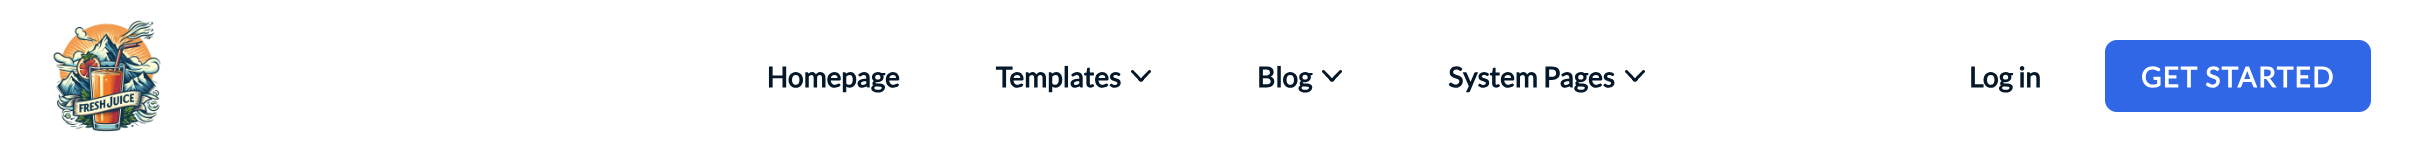
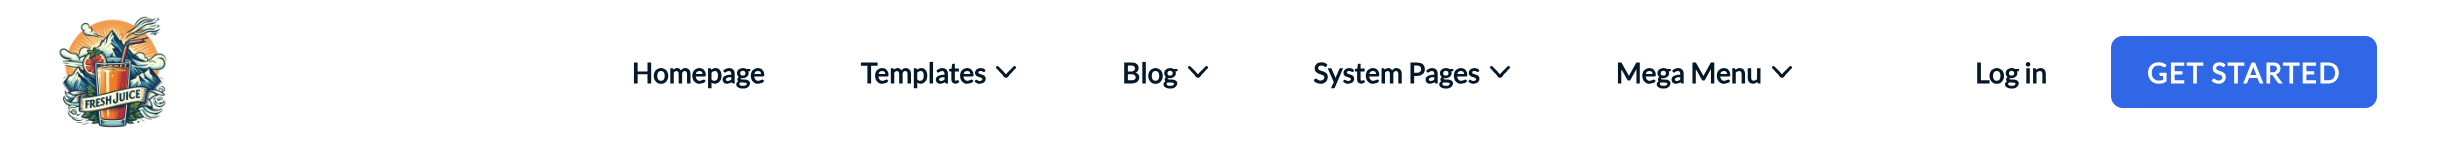
update navigation bar docs

Changed region(s): [[0.25, 0.411, 0.75, 0.6027], [0.7812, 0.2466, 1.0, 0.7397], [0.0, 0.1096, 0.0938, 0.8767]]

diff --git a/_content/docs/modules/navigation-bar/index.md b/_content/docs/modules/navigation-bar/index.md
@@ -5,7 +5,7 @@ desc: The Navigation Bar modules provide a simple way to display an interface wi
 
 The Navigation Bar modules provide a simple way to display an interface with navigation for the site's pages or sections.
 
-You can check the demo page [here](https://143910617.hs-sites-eu1.com/module-navigation-bar)
+You can check the [demo page here](https://143910617.hs-sites-eu1.com/module-navigation-bar)
 
 <figure>
   <img src="./nav-bar.png" alt="Screenshot of Navigation Bar Module" />
@@ -31,3 +31,38 @@ We recommend using navigation bar simple module for landing pages or form pages.
     - **Primary Button**: The primary button style for call to action; Button with background with mouse over effect on hover.
   - **Title**: Text for the CTA button or link.
   - **Link**: The section for the url of the cta button / link. Link to specifies where exactly the link goes (External, file etc) and the URL field is where you insert your link. There is also an option for the link to open on a new window instead of the current.
+
+Navigation Bar Simple Module does not have menu settings, having only a logo and CTA button/link.
+
+## Navigation Bar Menu Settings
+
+Our Standard Navigation Bar module allows for two different types of dropdown. The two level classic dropdown or a three level dropdown menu.
+
+By pressing create new in the settings for **Menu**, you will be redirected to a new page where you may create your own menu.
+
+Then, you may create a Two Level or Three Level Dropdowns in the Menu by stacking elements below one another.
+
+If you want to use Three Level Dropdowns in your navigation bar, it is essential that you select "Modern" from settings in **Menu Layout**.
+
+Additionally, it is good practice to have the first element (name) of the dropdown as "No Link".
+
+<figure>
+  <img src="./dropdown-two-settings.png" alt="Example of Settings for Two Level Dropdown" />
+  <figcaption>Example for Settings of Two Level Dropdown</figcaption>
+</figure>
+
+<figure>
+  <img src="./dropdown-level-two.png" alt="Screenshot of Two Level Dropdown" eleventy:widths="300"/>
+  <figcaption>Two Level Dropdown</figcaption>
+</figure>
+
+<figure>
+  <img src="./dropdown-three-settings.png" alt="Example of Settings for Three Level Dropdown" eleventy:widths="600"/>
+  <figcaption>Example for Settings of Three Level Dropdown</figcaption>
+</figure>
+
+<figure>
+  <img src="./dropdown-level-three.png" alt="Screenshot of Three Level Dropdown Menu" />
+  <figcaption>Three Level Dropdown</figcaption>
+</figure>
+
